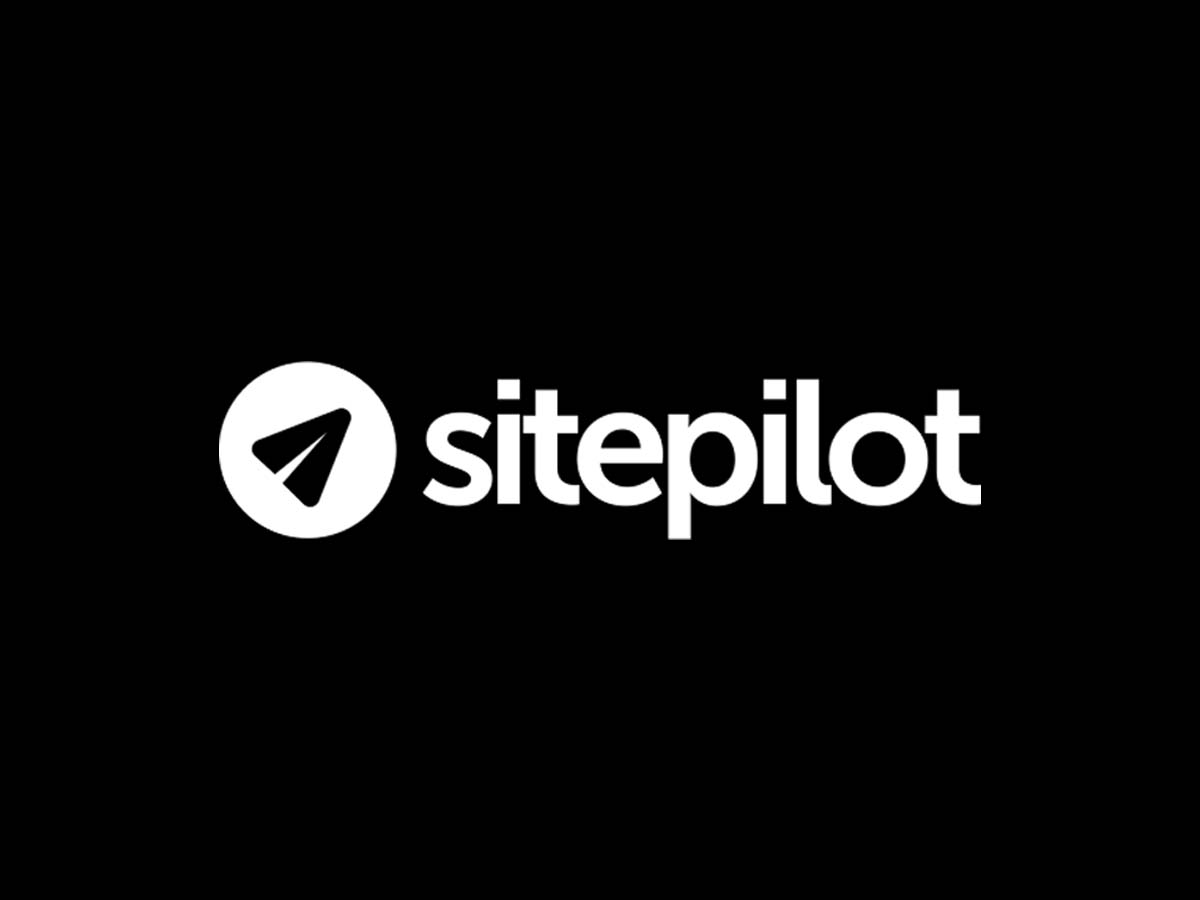
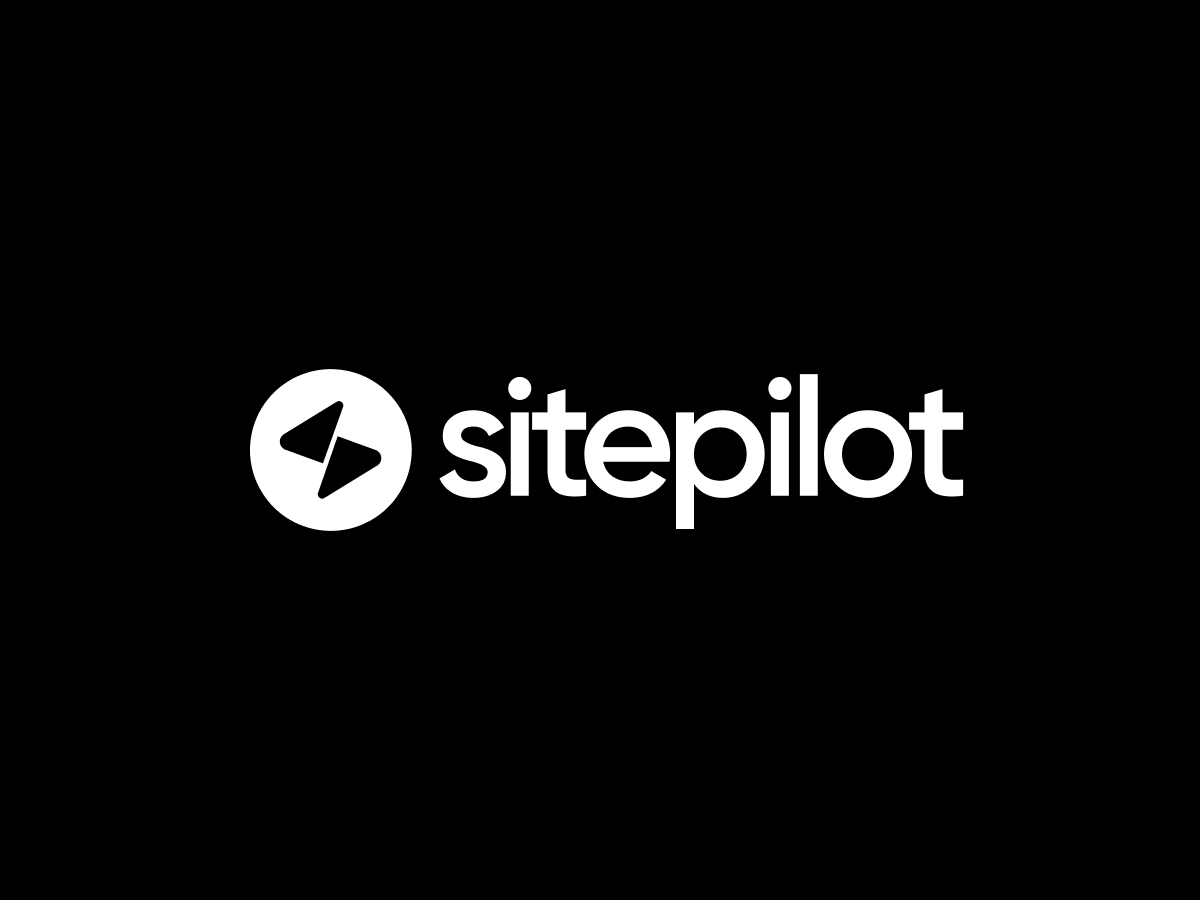
Update branding and packages

Changed region(s): [[0.185, 0.4044, 0.8325, 0.6222]]

diff --git a/style.css b/style.css
@@ -1,5 +1,5 @@
 /*
-Theme Name: Sitepilot Sarter Theme
+Theme Name: Sarter Theme
 Theme URI: https://sitepilot.io
 Description: WordPress starter theme with a modern development workflow.
 Version: 1.0.0-dev
